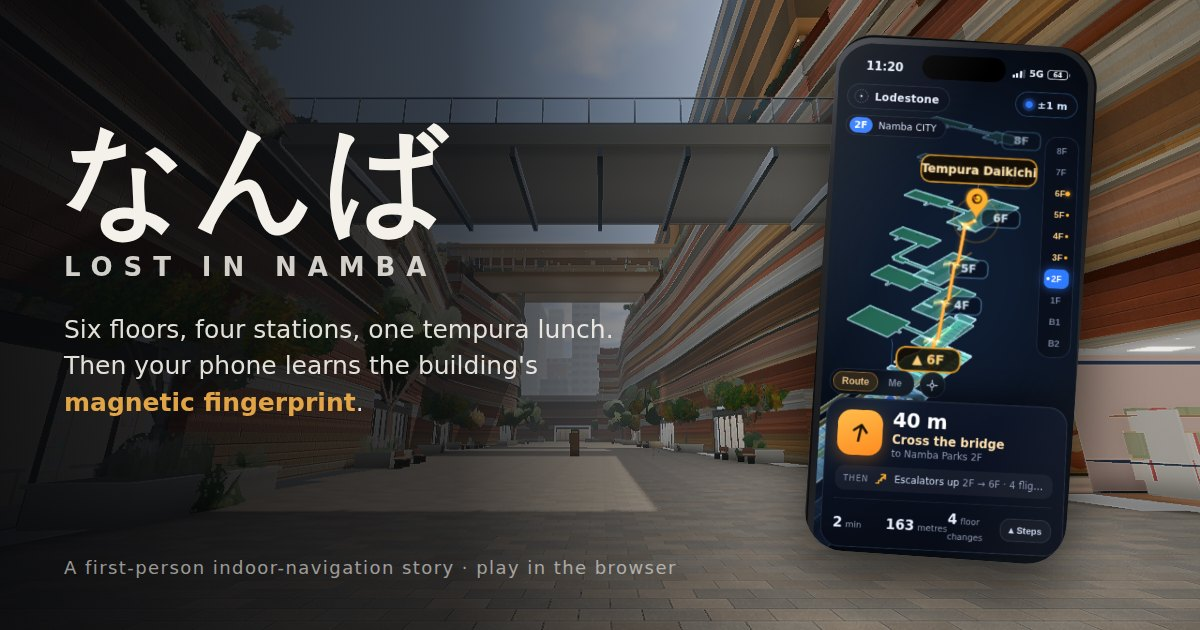
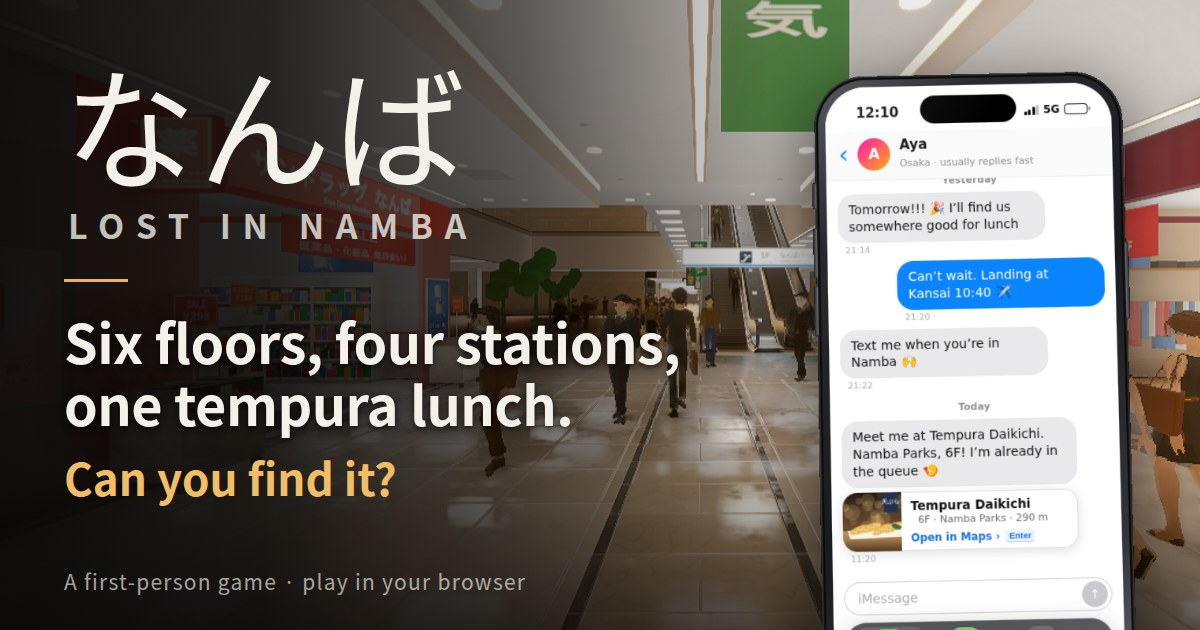
Deploy Lost in Namba share card: quest-first og.jpg + link descriptions (no spoilers), touch title copy

diff --git a/namba-demo/index.html b/namba-demo/index.html
@@ -5,18 +5,20 @@
 <meta name="viewport" content="width=device-width, initial-scale=1, viewport-fit=cover, user-scalable=no">
 <meta name="theme-color" content="#08080a">
 <title>Lost in Namba</title>
-<meta name="description" content="A first-person wander through Namba, Osaka: a tempura lunch is waiting somewhere in this labyrinth. Best with keyboard and mouse, headphones on.">
+<meta name="description" content="Six floors, four stations, one tempura lunch. You just landed in Osaka, your friend is already in the queue, and Namba is a labyrinth. Can you find her? A first-person game in your browser.">
 <meta property="og:type" content="website">
 <meta property="og:title" content="Lost in Namba — なんば">
-<meta property="og:description" content="Six floors, four stations, one tempura lunch. A first-person indoor-navigation story in the browser.">
+<meta property="og:description" content="Six floors, four stations, one tempura lunch. Your friend is already in the queue. Can you find her in the labyrinth that is Namba? Play in your browser.">
 <meta property="og:url" content="https://zack-niv.github.io/namba-demo/">
 <meta property="og:image" content="https://zack-niv.github.io/namba-demo/og.jpg">
 <meta property="og:image:width" content="1200">
 <meta property="og:image:height" content="630">
+<meta property="og:image:alt" content="Lost in Namba: a first-person view of a crowded Osaka station concourse, with a text from a friend on a phone: Meet me at Tempura Daikichi, Namba Parks 6F.">
 <meta name="twitter:card" content="summary_large_image">
 <meta name="twitter:title" content="Lost in Namba — なんば">
-<meta name="twitter:description" content="Six floors, four stations, one tempura lunch. A first-person indoor-navigation story in the browser.">
+<meta name="twitter:description" content="Six floors, four stations, one tempura lunch. Your friend is already in the queue. Can you find her in the labyrinth that is Namba? Play in your browser.">
 <meta name="twitter:image" content="https://zack-niv.github.io/namba-demo/og.jpg">
+<meta name="twitter:image:alt" content="Lost in Namba: a first-person view of a crowded Osaka station concourse, with a text from a friend on a phone: Meet me at Tempura Daikichi, Namba Parks 6F.">
 <link rel="preconnect" href="https://fonts.googleapis.com">
 <link rel="preconnect" href="https://fonts.gstatic.com" crossorigin>
 <link href="https://fonts.googleapis.com/css2?family=Noto+Sans+JP:wght@400;500;700;900&family=Inter:wght@400;500;600;700&display=swap" rel="stylesheet" media="print" onload="this.media='all'"><noscript><link href="https://fonts.googleapis.com/css2?family=Noto+Sans+JP:wght@400;500;700;900&family=Inter:wght@400;500;600;700&display=swap" rel="stylesheet"></noscript>

diff --git a/namba-demo/js/ui/title.js b/namba-demo/js/ui/title.js
@@ -33,14 +33,14 @@ export class Title {
         <div class="t-rule"></div>
         <div class="t-tag">Somewhere in this labyrinth, a tempura lunch is waiting.</div>
         <div class="t-tag-ja">この迷宮のどこかで、天ぷらが待っている。</div>
-        <button type="button" class="t-begin"><span class="t-begin-line"></span><span>Click to begin</span><small>クリックしてはじめる</small></button>
+        <button type="button" class="t-begin"><span class="t-begin-line"></span><span>${touch ? 'Tap to begin' : 'Click to begin'}</span><small>${touch ? 'タップしてはじめる' : 'クリックしてはじめる'}</small></button>
       </div>
       <div class="t-drawer" hidden>
         <div class="t-drawer-head"><span class="t-drawer-title"></span><button type="button" class="t-close" aria-label="Close">✕</button></div>
         <div class="t-drawer-body"></div>
       </div>
       <div class="t-foot">
-        <div class="t-hint">${touch ? 'Best on a computer with a keyboard and mouse' : 'Best with keyboard &amp; mouse'}<span class="t-sep">·</span>headphones on <span class="t-hp" aria-hidden="true">🎧</span></div>
+        <div class="t-hint">${touch ? 'Left thumb walks · drag to look' : 'Best with keyboard &amp; mouse'}<span class="t-sep">·</span>headphones on <span class="t-hp" aria-hidden="true">🎧</span></div>
         <div class="t-keys"><span>${k('W')}${k('A')}${k('S')}${k('D')} <i>walk</i></span><span>${k('Shift', 1)} <i>hurry</i></span><span>${k('Q')} <i>phone</i></span><span>${k('E')} <i>interact</i></span></div>
       </div>`;
     const drawer = el.querySelector('.t-drawer');
